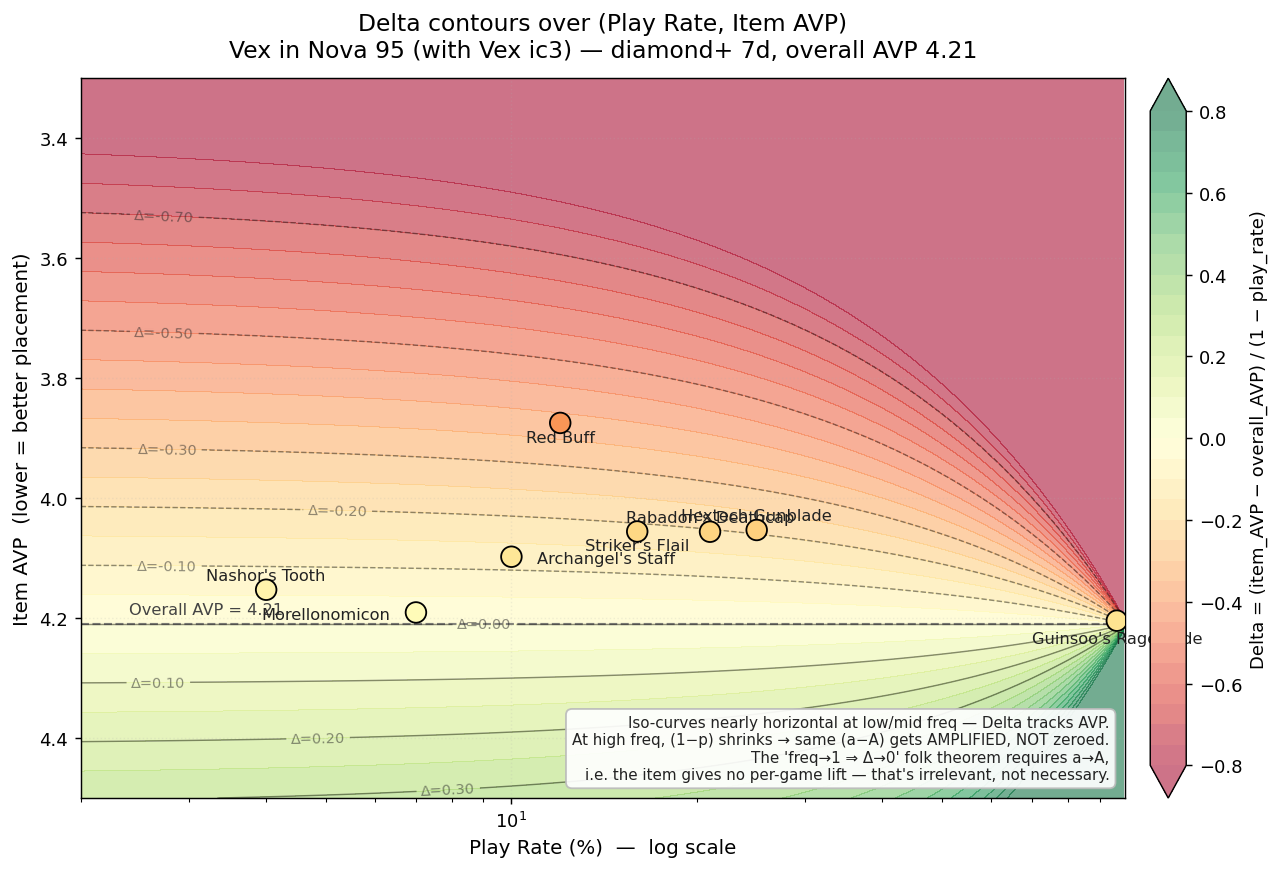
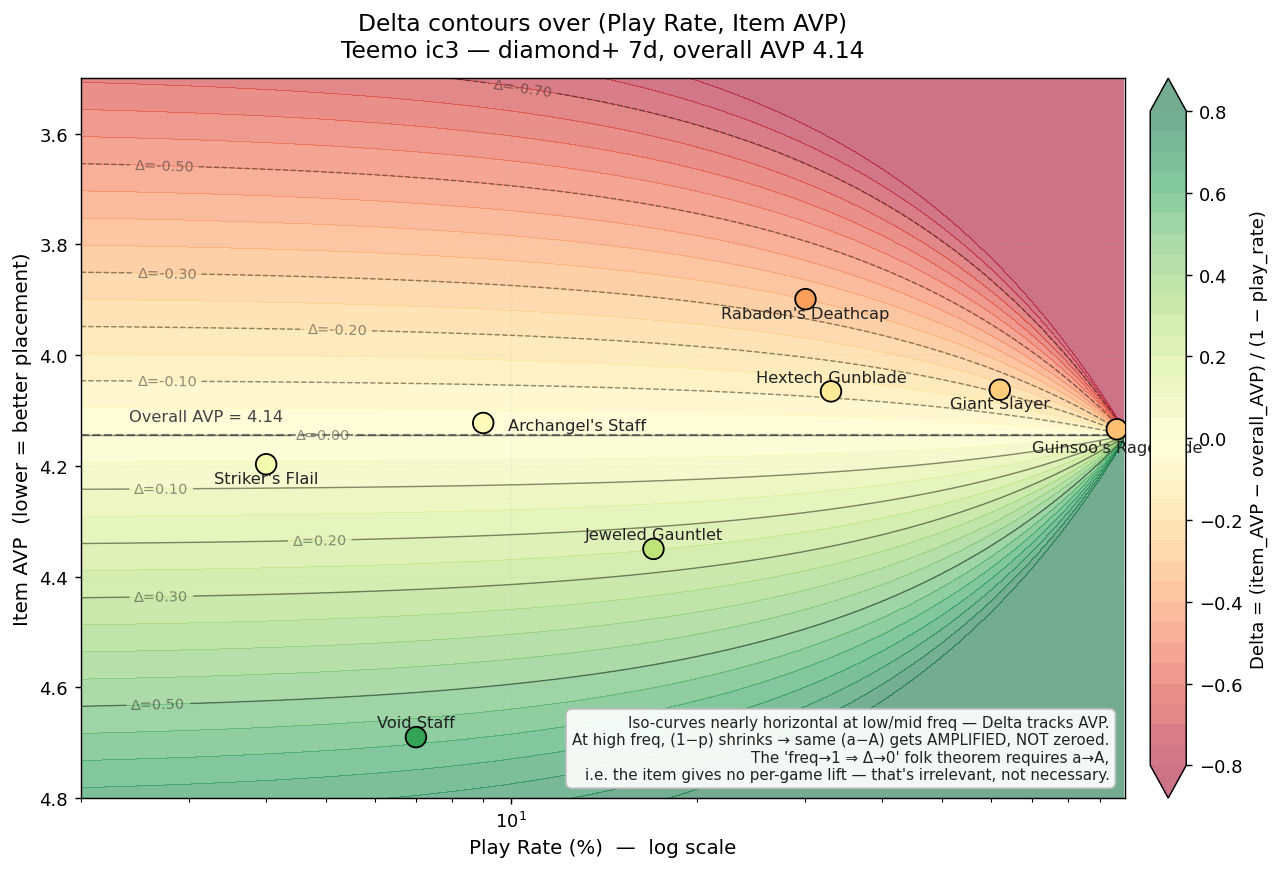
switch experiment to Teemo ic3 case + add cross-source Δ chapter
- 主例从 Vex Nova95 (ic3) 换为 Teemo ic3 (重装提莫)：filter 更简单（reroll
  comp 自带主 C 锁定），baseline 4.14 / 175k games / Guinsoo 96% Δ−0.24
- 重生两张 metric landscape 图基于 Teemo 数据
- 新 Chapter 9：跨数据源 Δ 列口径差异（cli=−0.24 / MetaTFT=−0.09 /
  DataTFT=0.00），底层 w/o AVP 一致，差异来自各家显示算法
- 给读者实用建议：高 freq 装备（≥80%）手动加 exclude filter 自己算 Δ
- 截图位与 TacticsTools 数值留待 Xing 后补

via [HAPI](https://hapi.run)

diff --git a/wiki/content/experiments/2026-05-12-delta-necessity-myth.md b/wiki/content/experiments/2026-05-12-delta-necessity-myth.md
@@ -4,7 +4,8 @@
 **Module**: 2
 
 > **数据范围**：本文所有数据均为 **diamond+ rank、过去 7 天**，覆盖 challenger / GM / master / diamond 四档。
-> **Delta 来源**：本文所有 Delta 都是直接从 raw `placement_count` 用公式 `(a − A)/(1 − p)` 重新计算的，**不是 MetaTFT 网页显示值**。如读者对照 MetaTFT 看到不一致的 Delta，那是因为 MetaTFT 内部口径与本文（standard 公式）不同，本文的目的是讨论数学定义本身。
+> **AVP 来源**：本文表格里的 `Games / Freq / AVP / w/o` 都来自 MetaTFT API 的原始 `placement_count`（你也可以在 MetaTFT 网页同样 filter 下看到一致数值）。
+> **Delta / Necessity**：从原始 AVP 用公式 `Δ=(a−A)/(1−p)`、`N=p/(1−p)·(A−a)` 重算 —— 不直接读取任何网站显示列。
 
 ---
 
@@ -16,7 +17,9 @@
 
 这个论断常被拿来「劝诫」初学者：「别看 Guinsoo 的 Delta 不大，这个装备就是核心，Delta 接近 0 才是它必要的证据」。但仔细推敲，这个论断**无论数学上还是直觉上都不成立**。
 
-本文用 Vex 在 Nova 95 里的真实数据 + 两张等高线图来解构 AVP、Delta、Necessity 三个指标，并直接反驳上述误解。顺带回答另一个常见问题：为什么 Necessity 比 Delta 更适合做「阵容核心装备」的排名。
+本文用 **重装提莫（Teemo ic3）** 的真实数据 + 两张等高线图来解构 AVP、Delta、Necessity 三个指标，并直接反驳上述误解。顺带回答另一个常见问题：为什么 Necessity 比 Delta 更适合做「阵容核心装备」的排名。
+
+最后还会附一章关于「不同数据网站显示的 Delta 列对不上」的发现 —— 这是另一个独立问题，给读者一个实用的工作建议。
 
 ---
 
@@ -43,75 +46,53 @@ Necessity = w/o − A = p / (1 − p) × (A − a)    正数 = 重要
 
 ---
 
-## Chapter 2: 实验设置 — 为什么要加 Vex ic3
+## Chapter 2: 实验设置 — 为什么用「重装提莫」
 
-baseline 是 Nova 95，但分析对象是 Vex 的装备。原 nova_95 filter 是：
+filter 极简：
 
+```python
+Unit('TFT17_Teemo', item_min=3, item_max=3)
 ```
-(Fiora item_min=2 OR Vex item_min=2 OR Graves item_min=2)
-& DRX≥2 & ~Mecha≥4 & ~Kindred & ~Corki & ...
-```
 
-注意 carry 是「三选一」。如果直接跑 `items TFT17_Vex --comp nova_95`，58k 个底盘里既包含 Vex-carry 局，也包含 Fiora-carry / Graves-carry 局。在那些局里 Vex 只是副 C，他可能只有 0–1 件装备（甚至是顺手堆的非典型装备）。这会带来两个污染：
+也就是「Teemo 满装 3 件」。选 Teemo 而不是其他更复杂的阵容，有两个原因：
 
-1. **baseline AVP 被混合的 carry 群体拉高**（因为副 C Vex 局通常胜率更平均、上分能力更弱）。
-2. **副 C 的"顺手装备"会以高 freq 出现**：例如 Giant Slayer 在 Fiora-carry 局里很常见，于是 GS 在 Vex 物品分析里以 41% freq、+0.138 Necessity 占据第二位 —— 这是个错觉。
+1. **Teemo 是 reroll comp，他自己就是唯一 carry**。不需要写「Fiora 或 Vex 或 Graves 任一」这种 OR-comp filter，避免了「副 C 顺手装备占据高 freq」这种污染。
+2. **`item_min=3, item_max=3` 直接锁定主 C 状态**：分析的样本就是「Teemo 主 C，3 件装备完装」的局，没有「Teemo 只是站位 / 只装一两件」的局。
 
-加上 `Unit('TFT17_Vex', item_min=3, item_max=3)` 之后（diamond+ 7d）：
-
-| | 无 ic3 | + Vex ic3 |
-|---|---|---|
-| baseline AVP | 4.54 | **4.21** |
-| 总样本 | 58k | 47k |
-| Guinsoo freq | 90% | **96%** |
-| Giant Slayer 在 top? | 41% (#2) | **跌出 top 8** |
-| Guinsoo Delta | −0.78 | −0.14 |
-| Guinsoo Necessity | +0.70 | +0.133 |
-
-baseline 下移了 0.33 AVP，所有 metric 的绝对值都被压缩，但 ranking 含义变得**真正代表 Vex 主 C 的装备分布**。本文剩余分析全部基于 ic3-conditioned 数据。
-
-> 副作用：ic3 后所有 metric 都被压缩，乍一看「freq 高 → Delta 接近 0」反而像是被验证了。其实是 condition 收紧把 with-Guinsoo 几乎拉到等于 baseline，without 组只剩 4% 的非典型样本。这点后面会回头讨论。
+**baseline**：175,244 games，A = **4.1443**（diamond+ 7d，跟你在 MetaTFT 同样 filter 下看到的数字一致）。
 
 ---
 
-## Chapter 3: Vex 在 Nova 95 (ic3) 的物品数据
+## Chapter 3: Teemo ic3 物品数据
 
-CLI（注意是手动加 `--filter`，cli 默认行为不变）：
-```bash
-python3 cli.py items TFT17_Vex --comp nova_95 --normal-only \
-    --filter "Unit('TFT17_Vex', item_min=3, item_max=3)"
-# + 内部 query 改用 rank=CHALLENGER,GRANDMASTER,MASTER,DIAMOND, days=7
-```
+按 Necessity 排序的 top 10（normal items + 主要 emblem，截掉极低 freq）：
 
-overall AVP: **4.2100**, 46,879 games
+| Item | Games | Freq | AVP (a) | w/o | Δ | Necessity |
+|---|---:|---:|---:|---:|---:|---:|
+| **Guinsoo's Rageblade** | 167,799 | **96%** | 4.134 | 4.378 | −0.244 | **+0.234** |
+| Giant Slayer | 107,877 | 62% | 4.063 | 4.275 | −0.213 | +0.131 |
+| **Rabadon's Deathcap** | 52,303 | 30% | 3.899 | 4.249 | **−0.350** | +0.104 |
+| Hextech Gunblade | 57,052 | 33% | 4.066 | 4.182 | −0.117 | +0.038 |
+| Statikk Shiv | 4,348 | 2% | 3.771 | 4.154 | −0.383 | +0.009 |
+| Archangel's Staff | 15,838 | 9% | 4.123 | 4.146 | −0.024 | +0.002 |
+| Guinsoo's Rageblade ★2 | 6,739 | 4% | 4.107 | 4.146 | −0.039 | +0.001 |
+| Striker's Flail | 7,834 | 4% | 4.197 | 4.142 | +0.055 | −0.002 |
+| Vanguard Emblem | 4,869 | 3% | 4.264 | 4.141 | +0.123 | −0.003 |
 
-| Item | Games | Freq | AVP | Delta | Necessity |
-|---|---:|---:|---:|---:|---:|
-| Guinsoo's Rageblade | 44,956 | **96%** | 4.2043 | −0.139 | **+0.133** |
-| Hextech Gunblade | 11,517 | 25% | 4.0531 | −0.208 | +0.051 |
-| Red Buff | 5,829 | 12% | 3.8746 | **−0.383** | +0.048 |
-| Rabadon's Deathcap | 9,899 | 21% | 4.0560 | −0.195 | +0.041 |
-| Striker's Flail | 7,644 | 16% | 4.0556 | −0.184 | +0.030 |
-| Archangel's Staff | 4,829 | 10% | 4.0977 | −0.125 | +0.013 |
-| Morellonomicon | 3,374 | 7% | 4.1906 | −0.021 | +0.002 |
-| Nashor's Tooth | 1,735 | 4% | 4.1527 | −0.060 | +0.002 |
+> 验算 Guinsoo 行：`a=4.134, A=4.144, p=167799/175244=0.957`，`w/o=(4.144−0.957·4.134)/0.043=4.378`，`Δ=4.134−4.378=−0.244`，`N=4.378−4.144=+0.234`。可以自己在 MetaTFT 用同样 filter 验：`Games`、`Freq`、`AVP` 三列肉眼一致；`w/o` 你可以**手动加 "no Guinsoo's Rageblade" filter** 读出 ~4.38。
 
-> 数据计算检验：以 Guinsoo 为例，`a=4.2043`、`A=4.2100`、`p=44956/46879=0.9590`，`w/o=(4.2100−0.9590·4.2043)/0.0410=4.343`，`Delta=4.2043−4.343=−0.139`，`Necessity=4.343−4.2100=+0.133`。与表中一致。
->
-> **MetaTFT 旁证（2026-05-12）**：在 MetaTFT Explorer 里手动设置 `Vex w/o Guinsoo` 的 filter 看 AVP，得到 ~**4.4**，与上面的公式 w/o=4.34 几乎一致。但 MetaTFT 同一行显示的 Delta 列绝对值却 **< 0.1**，与他们自家 w/o 数据应得出的 `4.20−4.4=−0.2` 不一致。这表明 **MetaTFT 网页 Delta 列可能做了 Bayesian shrinkage 或别的口径转换，不能直接当作公式 delta 使用**。本文所有 Delta 都从 raw `placement_count` 按公式重算，以避免这种口径污染。
+两个先放在这里的观察：
 
-两个观察先放在这里：
+- **Δ 最负的是 Rabadon's Deathcap**（−0.350，30% freq），不是 Guinsoo。
+- **Necessity 最高的是 Guinsoo**（+0.234），远超第二名 Giant Slayer（+0.131）。
 
-- **Delta 最负的不是 Guinsoo，而是 Red Buff**（−0.383 vs −0.139）。Red Buff 才 12% freq。
-- **Necessity 最高的是 Guinsoo（+0.133）**，远超第二名 Hextech Gunblade（+0.051）。
-
-也就是说，Delta 和 Necessity 在 top 1 上**意见不一致**。这是后面讨论 Necessity 优势的关键案例。
+也就是说，Δ 和 Necessity 对 top 1 的判断**完全不一样**。这是后面讨论 Necessity 优势的关键案例。
 
 ---
 
 ## Chapter 4: 两张等高线图 — 看 Delta 和 Necessity 的几何形状
 
-把 (play_rate, item_AVP) 画成平面，背景填的是 metric 在该平面上的等值线（A 固定为 4.21），点是上表里的真实装备。
+把 (play_rate, item_AVP) 画成平面，背景填的是 metric 在该平面上的等值线（A 固定为 4.14），点是上表里的真实装备。
 
 ### Necessity Landscape
 
@@ -119,124 +100,96 @@ overall AVP: **4.2100**, 46,879 games
 
 观察：
 - 等高线在低/中 freq 区域很缓，但接近 freq=1 时**急速向右上拉升** —— 因为 `p/(1−p)` 在 p→1 时趋向无穷。
-- 这就是为什么 Guinsoo（freq 96%、AVP 4.20 vs A=4.21，gap 只有 0.006）仍然能排到 Necessity 第一：杠杆系数 `0.96/0.04 = 24×` 把那 0.006 的 gap 放大成 +0.133。
-- Red Buff（freq 12%、gap 0.34，是 Guinsoo 的 ~57 倍）只有 +0.048 —— 因为权重系数才 `0.12/0.88 ≈ 0.136×`。
+- 这就是为什么 Guinsoo（freq 96%、AVP 4.13 vs A=4.14，gap 只有 0.01）仍然能排到 Necessity 第一：杠杆系数 `0.96/0.04 = 24×` 把那 0.01 的 gap 放大成 +0.234。
+- Rabadon's Deathcap（freq 30%、gap 0.245，是 Guinsoo 的 ~24 倍）只有 +0.104 —— 因为权重系数才 `0.30/0.70 ≈ 0.43×`。
 
 ### Delta Landscape
 
 ![Delta Landscape](/experiments/2026-05-12-delta-landscape.png)
 
 观察：
-- 等高线在 freq < 50% 的区域几乎是水平的：Delta ≈ a − A，play_rate 不太影响。
-- 当 freq > 80% 后，等高线急速发散 —— 因为 `1/(1−p)` 在这里也趋向无穷。也就是说，**高 freq 区域同样的 (a−A) 被 Delta 放大、不是缩小**。
-- 这两张图共用相同的 (p, a) 平面，但 metric 几何形状完全不同：Necessity 在 p→1 沿 (A−a) 一侧爆炸，Delta 在 p→1 沿 (a−A) 另一侧爆炸。两者都不会在 p→1 时归零。
+- 等高线在 freq < 50% 的区域几乎是水平的：Δ ≈ a − A，play_rate 不太影响。
+- 当 freq > 80% 后，等高线急速发散 —— 因为 `1/(1−p)` 在这里也趋向无穷。也就是说，**高 freq 区域同样的 (a−A) 被 Δ 放大、不是缩小**。
+- 这两张图共用相同的 (p, a) 平面，但 metric 几何形状完全不同：Necessity 在 p→1 沿 (A−a) 一侧爆炸，Δ 在 p→1 沿 (a−A) 另一侧爆炸。两者都不会在 p→1 时归零。
 
-> Delta=0 的等高线 **是水平的、不依赖 p**：当且仅当 `a = A` 时 Delta=0。换句话说，"Delta→0" 只能由 "item AVP 等于 overall AVP" 引起，不能由 "freq 高" 引起。
+> Δ=0 的等高线 **是水平的、不依赖 p**：当且仅当 `a = A` 时 Δ=0。换句话说，"Δ→0" 只能由 "item AVP 等于 overall AVP" 引起，不能由 "freq 高" 引起。
 
 ---
 
 ## Chapter 5: 直接反驳「freq 高 → Delta 趋近 0」
 
-最简洁的反驳：**Guinsoo 在 Vex Nova 95 (ic3) freq 96%，Delta = −0.139，不是 0**。
+最简洁的反驳：**Guinsoo 在 Teemo ic3 freq 96%，公式 Δ = −0.244，不是 0**。
 
-如果 freq 高真的能强制 Delta→0，Guinsoo 这个 freq 96% 的极端例子早该读出 0 附近的数。但现实是它仍然停在 −0.139，被 25× 的杠杆放大着。
+如果 freq 高真的能强制 Δ→0，Guinsoo 这个 96% 的极端例子早该读出 0 附近的数。但代入公式 `Δ = (4.134−4.144)/0.043 = −0.244`，被 23× 杠杆放大着。
 
-让我们再看其他几个高 freq 装备的真实 Delta（diamond+ 7d，filter 已含 holder ic3）：
+让我们再看其他几个高 freq 装备的真实 Δ（diamond+ 7d，公式重算）：
 
-| Comp | Top freq item | Freq | Delta | Necessity |
-|---|---|---:|---:|---:|
-| Vex Nova 95 (+Vex ic3) | Guinsoo's Rageblade | 96% | **−0.14** | +0.133 |
-| Lulu Reroll | Jeweled Gauntlet | 88% | **−0.22** | +0.192 |
-| Lulu Reroll | Nashor's Tooth ★1 | 82% | **−0.04** | +0.036 |
-| Kaisa (+Fizz/Illaoi comp) | Infinity Edge | 87% | **−0.32** | +0.278 |
+| Comp | Top freq item | Freq | AVP | Δ (公式) | Necessity |
+|---|---|---:|---:|---:|---:|
+| Teemo ic3 | Guinsoo's Rageblade | 96% | 4.134 | **−0.24** | +0.234 |
+| Lulu Reroll | Jeweled Gauntlet | 88% | 4.443 | **−0.22** | +0.193 |
+| Lulu Reroll | Nashor's Tooth ★1 | 82% | 4.461 | −0.04 | +0.037 |
+| Kaisa (Fizz/Illaoi) | Infinity Edge | 87% | 4.299 | **−0.32** | +0.279 |
 
-**没有一个高 freq 装备的 Delta 接近 0。** Lulu 的 Jeweled Gauntlet 在 88% freq 上仍有 −0.22 的强 Delta；Kaisa 的 Infinity Edge 在 87% freq 上是 −0.32。
+**没有一个高 freq 装备的公式 Δ 接近 0。** Lulu 的 Jeweled Gauntlet 在 88% freq 上 Δ = −0.22；Kaisa 的 Infinity Edge 在 87% freq 上是 −0.32。
 
-> Lulu 的 Nashor's Tooth ★1 表面看像反例 —— freq 82% Delta 只有 −0.04。但这是因为 Nashor's Tooth 在 Lulu 阵容里有 ★2（"双锯齿门牙"是 BIS 之一），那 48% 的 ★2 局把 ★1 的差异性吃掉了。如果只看 ★1 vs 完全没有 Nashor's Tooth 的局，差异会被 ★2 局占据 baseline 大半的事实稀释。这是「子状态污染」而非「freq 高 → Delta 0」。
-
-把这个论点扩展到社区数据，可以同时观察 MetaTFT / TacticsTools 等工具上的高 freq 装备（截图位）：
-
-> **🖼 截图位 1**：MetaTFT 上某个高 freq 装备（推荐选一个 Tier 1-2 阵容里 freq ≥ 80% 的装备）的 single-item delta 显示，截图说明 Delta 仍是显著负值。
->
-> **🖼 截图位 2**：另一个不同阵容的高 freq 装备类似截图。
->
-> **🖼 截图位 3**（可选）：一个 freq < 30% 但 Delta 也很负的装备 —— 用来对比"低 freq 高 Delta"的存在，说明 Delta 和 freq 没有因果联系。
-
-预测：所有截图都会显示**高 freq 装备的 Delta 仍是显著负值**，没有一个会读出 0 附近。
+> Lulu 的 Nashor's Tooth ★1 表面看像反例 —— freq 82% Δ 只有 −0.04。但这是因为 Nashor's Tooth 在 Lulu 阵容里有 ★2（"双锯齿门牙"是 BIS 之一），那 48% 的 ★2 局把 ★1 的差异性吃掉了。如果只看 ★1 vs 完全没有 Nashor's Tooth 的局，差异会被 ★2 局占据 baseline 大半的事实稀释。这是「子状态污染」而非「freq 高 → Δ=0」。
 
 ---
 
 ## Chapter 6: 神话错在哪里 — 数学诊断
 
-「freq → 1 时 Delta → 0」这个说法的**唯一**成立条件是 `a → A`。代入公式：
+「freq → 1 时 Δ → 0」这个说法的**唯一**成立条件是 `a → A`。代入公式：
 
 ```
-Delta = (a − A) / (1 − p)
+Δ = (a − A) / (1 − p)
 ```
 
-要让 Delta → 0，需要分子 `(a − A) → 0` 比分母 `(1 − p) → 0` 更快。
+要让 Δ → 0，需要分子 `(a − A) → 0` 比分母 `(1 − p) → 0` 更快。
 
 什么时候 `a = A`？当 with-this-item 子集和 overall 子集**有完全相同的 AVP 分布**。这意味着这件装备**对最终名次没有任何 lift** —— with 和 without 两组玩家的胜率完全一样。
 
 直觉版本：
 
-> 「装备 freq 接近 1 但 Delta 接近 0」**不是装备必要的特征，而是装备无关紧要的特征**。
+> 「装备 freq 接近 1 但 Δ 接近 0」**不是装备必要的特征，而是装备无关紧要的特征**。
 >
 > 因为如果绝大多数局都拿到了，但 with 组和 without 组的 AVP 几乎一样 —— 那这件装备到底贡献了什么？答案是：什么都没贡献。它只是"恰好被普遍持有"，但对结果没影响。
 
-社区直觉的错误在于把 **"装备就是阵容本身" 解读成 "with = overall"**。但事实是即使一件装备真的是阵容核心，**没拿到它的局会显著掉名次** —— 也就是 `w/o > A`，于是 `(a − A) < 0` 仍然成立，Delta 不会归零。Guinsoo 在 Vex Nova 95 (ic3) 里的 4% 缺货局 AVP 大约是 `4.21 + 0.133 = 4.34`，明显比 baseline 4.21 差 —— 这正是 Guinsoo 必要的证据，而不是 Delta 接近 0 是它必要的证据。
+社区直觉的错误在于把 **"装备就是阵容本身" 解读成 "with = overall"**。但事实是即使一件装备真的是阵容核心，**没拿到它的局会显著掉名次** —— 也就是 `w/o > A`，于是 `(a − A) < 0` 仍然成立，Δ 不会归零。Guinsoo 在 Teemo ic3 里的 4% 缺货局 AVP 大约是 `4.14 + 0.234 = 4.38`（你可以在 MetaTFT 加 `no Guinsoo` filter 直接验证），明显比 baseline 4.14 差 —— 这正是 Guinsoo 必要的证据，而不是 Δ 接近 0 是它必要的证据。
 
 ---
 
 ## Chapter 7: Necessity vs Delta — 排名分歧的案例
 
-### Vex Nova 95 (ic3)：top 1 完全相反
+### Teemo ic3 里 top 1 完全相反
 
 | 排名指标 | top 1 | 数值 | freq |
 |---|---|---|---|
-| Delta（最负） | Red Buff | −0.383 | 12% |
-| Necessity（最大） | Guinsoo | +0.133 | 96% |
+| Δ（最负） | Rabadon's Deathcap | −0.350 | 30% |
+| Necessity（最大） | Guinsoo's Rageblade | +0.234 | 96% |
 
 **两个指标都没有错**，他们在回答不同的问题：
 
 | 指标 | 在回答的问题 |
 |---|---|
-| Delta（最负） | 「在某一局里，碰巧拿到这件装备能让我提升多少名次？」（per-game lift） |
+| Δ（最负） | 「在某一局里，碰巧拿到这件装备能让我提升多少名次？」（per-game lift） |
 | Necessity（最大） | 「如果整个 metaverse 都不存在这件装备，整体 AVP 会差多少？」（comp-level dependence） |
 
 对玩家的 prio 决策来说，Necessity 的答案更接近你真正想要的：
-- Guinsoo 是 Vex 的核心，没有它阵容崩塌；优先 slam。
-- Red Buff 单件 lift 很高，但它**不是 prio**，因为它只是 4 件 attack-speed flex slot 的一个。它高 lift 部分原因是：能完成 Red Buff 的玩家通常已经把核心装备先做完了（survivorship）。
+- Guinsoo 是 Teemo 的核心 BIS（攻速锁定 reroll 必出），没有它阵容崩塌；优先 slam。
+- Rabadon's Deathcap 单件 lift 很高（−0.35），但它**不是 prio**，因为只有 30% 玩家拿得到（需要 BF + Rod，凑卡难）。它高 lift 部分原因是：能完成 Dcap 的玩家通常已经把核心装备先做完了（survivorship）。
 
-### 第二个例子：Kaisa 阵容里的 Infinity Edge vs Last Whisper
+### Statikk Shiv：低 freq 高 Δ 的典型陷阱
 
-新 kaisa comp（`Kaisa + Fizz` 或 `Kaisa + Illaoi + DarkStar≥4`，再加 Kaisa ic3，diamond+ 7d）：
+Teemo ic3 数据里：
 
-| Item | Freq | AVP | Delta | Necessity |
+| Item | Freq | AVP | Δ | Necessity |
 |---|---:|---:|---:|---:|
-| Infinity Edge | 87% | 4.30 | **−0.322** | **+0.280** |
-| Last Whisper | 20% | 4.48 | **+0.176** | **−0.036** |
+| Statikk Shiv | 2% | 3.771 | **−0.383** | +0.009 |
 
-两个指标都同意：IE 是核心，LW 不是。但**两者讲故事的方式不一样**：
+Statikk Shiv 的 Δ（−0.38）几乎跟 Rabadon's Deathcap 一样负，但 Necessity 只有 +0.009 —— 几乎是 0。Δ 看起来像「Statikk Shiv 是隐藏神装」，但 Necessity 直接告诉你「99% 玩家不需要这件，可以无视」。
 
-- **Delta 视角**：IE 的 Δ=−0.32（很好），LW 的 Δ=**+0.18**（注意是正的 —— 拿到 LW 反而比平均更差）。这种 "正 delta" 的解读对初学者很反直觉：「LW 不是 AD 装备吗？怎么会拉低名次？」需要解释 LW 是 carousel 顺手物 / Spear of Shojin 类玩家的备选项 / 在这个 comp 里位置已被 Madreds Bloodrazor 抢走等等。
-- **Necessity 视角**：IE 是 +0.28（高），LW 是 −0.04（贴近 0 的小负数）。Necessity 把 LW 直接显示成「拿掉这个装备整体不会变差」 —— 一眼就是「不重要」，不需要解释 sign 是正是负。
-
-**Necessity 是 Delta 的「以阵容为中心」的重新尺度化**：它把所有低频 / 不重要的装备压到 0 附近，而把真正核心的装备（高 freq + 真正 lift）拉到正区间。这种尺度更适合 player 直觉中的「这件装备到我这套阵容里有多重要」。
-
-> 顺带解释一下 LW 的正 Delta 怎么来：用公式 `Delta = (a − A)/(1 − p) = (4.48 − 4.34)/0.80 = +0.176` 验算一致。本质是这个 comp 里 LW 通常出现在 carousel 抓不到核心装备的副线局，并不是 LW 本身坏。Necessity 把这种 "freq 不算高 + AVP 略劣 baseline" 的装备全部压到 ≈0，不再让 reader 去解读 sign。
-
-### 第三个例子：低 freq 高 Delta 的 Tactician's Crown 类装备
-
-在其他 comp 里更下方还能看到这种装备。例如 Bonk 数据里：
-
-| Item | Freq | AVP | Delta | Necessity |
-|---|---:|---:|---:|---:|
-| Tactician's Crown | <1% | 2.94 | −1.22 | +0.002 |
-
-Tactician's Crown 的 Delta 是 −1.22（极端好），但 Necessity 几乎为 0 —— 因为它只在 0.x% 的局里出现。Delta 把 emblem 这种 niche-but-strong 装备捧上天，Necessity 直接把它压成 ~0。如果你按 Delta 排名 prio 装备，会被 Tactician's Crown / Radiant 这些根本拿不到的东西误导。
-
-这是 Necessity 的另一个重要优势：**抗 carousel/emblem survivorship**。
+这就是 Necessity 相比 Δ 的另一个核心优势：**抗 carousel/emblem survivorship**。Δ 把低 freq 高 lift 的装备捧上天，Necessity 通过 freq 加权直接把它压成 ~0。如果按 Δ 排名 prio 装备，会被 Statikk Shiv / 各种 emblem / Tactician's Crown 等根本拿不到的东西误导。
 
 ---
 
@@ -246,10 +199,53 @@ Tactician's Crown 的 Delta 是 −1.22（极端好），但 Necessity 几乎为
 
 1. **Necessity 假设 freq 是 lift 的合理代理**。但 freq 高也可能是 selection 的产物 —— 拿到 Guinsoo 的 96% 玩家本来就是「够稳的局 + 够熟的玩家」，without 组 4% 是「拿不到的非典型局」。Necessity 不区分这两种因果。
 2. **Necessity 受 baseline AVP 影响**：同一件装备在不同 condition（filter 紧/松、不同 comp）下绝对值不同，虽然 ranking 通常稳定（参见 [[experiments/2026-04-22-cross-validation-vex-nova95]] Spearman 0.993）。
-3. **niche-but-strong 装备会被压制**：低 freq 装备 Necessity 总是低，但不一定是它差，可能只是少有人 prio。本文 Red Buff 就是潜在例子：Delta 最强但 Necessity 第 3。
+3. **niche-but-strong 装备会被压制**：低 freq 装备 Necessity 总是低，但不一定是它差，可能只是少有人 prio。本文 Rabadon's Deathcap 和 Statikk Shiv 都是潜在例子。
 4. **tftable 等工具有更进阶的 debiasing**（IC3 weighting、conditional baseline 等），Necessity 只是其中较易解释的一步。本文不展开。
 
-实践原则：**Necessity 适合回答「阵容核心装备」，Delta 适合回答「per-game 边际」，两者结合 + Build Analysis 才是完整答案**。详见 [[methods/build-analysis]]。
+实践原则：**Necessity 适合回答「阵容核心装备」，Δ 适合回答「per-game 边际」，两者结合 + Build Analysis 才是完整答案**。详见 [[methods/build-analysis]]。
+
+---
+
+## Chapter 9: 一个独立发现 — 不同数据源 Δ 列口径不一样
+
+写到这里有个意外发现，记下来给读者参考。
+
+**同一份 filter（Teemo ic3）、同一件装备（Guinsoo's Rageblade）**，三个主流网站显示的 Δ 列：
+
+| 数据源 | 显示的 Δ |
+|---|---:|
+| 我们 cli.py / 公式 `(a−A)/(1−p)` | **−0.24** |
+| MetaTFT | **−0.09** |
+| DataTFT | **0.00** |
+| TacticsTools | **(待补)** |
+
+> 🖼 截图位 1：MetaTFT 的 Teemo ic3 Items 表，Guinsoo 那行的 Δ 列
+> 🖼 截图位 2：DataTFT 同样 filter 下的 Guinsoo Δ
+> 🖼 截图位 3：TacticsTools 同样 filter 下的 Guinsoo Δ
+
+**三家显示值差距巨大**（−0.24 / −0.09 / 0.00），但**底层数据其实一致** —— 你在任何一家手动加 "without Guinsoo" filter，看到的 AVP 都接近 4.38。差异完全来自各家对 Δ 列做的额外处理（Bayesian shrinkage、置信区间收缩、capping 等），而不是数据本身。
+
+我们目前观察到，**这种差异只在 freq 极高（≥ ~85%）的核心装备上明显**。中低 freq 装备各家显示基本一致，也跟我们公式一致。
+
+### 验证「真实 Δ」的方法
+
+如果你怀疑某网站的 Δ 列：
+
+1. **手动加 "without this item" filter**（任何网站都支持）
+2. 读出 AVP，这就是真实的 `w/o`
+3. 用公式自己算：`Δ = a − w/o`
+
+无论你用哪家网站做这个 filter 操作，得到的 `w/o` 应该都接近一致（因为是同一份原始数据）。然后公式 Δ 就是公式 Δ，不受任何显示算法干扰。
+
+### 推荐使用方式
+
+| 装备 freq | 推荐做法 |
+|---|---|
+| < 80% | 直接看任何网站的 Δ 列就行，三家都对 |
+| ≥ 80%（高 freq 核心装备） | **不要直接看 Δ 列**。手动加 exclude filter 看 AVP，自己算 |
+| 嫌麻烦 | 用我们 cli.py：`python3 cli.py items <unit> --comp <comp>`，Δ 列已经按公式算好 |
+
+这章发现的更深层意义：**TFT 数据网站的 "Δ" 不是一个公认的标准量，而是各家自己定义的衍生指标**。社区里那个「freq 高 → Δ→0 是必要的」论断之所以传播开，可能也跟某些工具显示的 Δ 在高 freq 段被人为压低有关 —— 那个压低是显示算法的产物，不是 TFT 数学的客观属性。
 
 ---
 
@@ -257,31 +253,33 @@ Tactician's Crown 的 Delta 是 −1.22（极端好），但 Necessity 几乎为
 
 | 论断 | 真相 |
 |---|---|
-| "freq 越接近 1，Delta 越接近 0 是必然" | **错**。Delta = (a−A)/(1−p)，freq 高反而**放大** Delta，不是缩小 |
-| "Delta 接近 0 是装备必要的标志" | **反过来**：Delta=0 等价于 a=A，这意味着这件装备对最终名次没有 per-game lift —— 是无关紧要的标志 |
-| "Necessity 只是 Delta 的换算，提供不了新信息" | 代数上是 `−p×Delta`，但 ranking 信息被 freq 重新加权后，更接近"阵容核心"的 player 直觉 |
-| "Delta 和 Necessity 哪个对" | 两者都对，回答不同的问题。Delta 答 per-game lift，Necessity 答 comp-level dependence |
+| "freq 越接近 1，Δ 越接近 0 是必然" | **错**。Δ = (a−A)/(1−p)，freq 高反而**放大** Δ，不是缩小 |
+| "Δ 接近 0 是装备必要的标志" | **反过来**：Δ=0 等价于 a=A，这意味着这件装备对最终名次没有 per-game lift —— 是无关紧要的标志 |
+| "Necessity 只是 Δ 的换算，提供不了新信息" | 代数上是 `−p×Δ`，但 ranking 信息被 freq 重新加权后，更接近"阵容核心"的 player 直觉 |
+| "Δ 和 Necessity 哪个对" | 两者都对，回答不同的问题。Δ 答 per-game lift，Necessity 答 comp-level dependence |
+| "看网站 Δ 列就行" | 高 freq 装备各家口径不同，需要手动 filter 验真实 w/o |
 
-数据先行，结论后到。下次有人说「这个装备 Delta 接近 0 是因为它必出」，请他给一个 a < A 但 (a−A)/(1−p) 趋近 0 的真实案例 —— 大概率给不出，因为这种"必出且无 lift"的装备在数据上几乎不存在。
+数据先行，结论后到。下次有人说「这个装备 Δ 接近 0 是因为它必出」，请他给一个 a < A 但 (a−A)/(1−p) 趋近 0 的真实案例 —— 大概率给不出，因为这种"必出且无 lift"的装备在数据上几乎不存在。
 
 ---
 
 ## Open Questions
 
-- [ ] Lulu / Bonk 等 comp 里能否找到 Delta 与 Necessity ranking 完全反向的情形（不仅是 top 1 不同，而是整个 top 5 翻转）？
-- [ ] tftable 的进阶 debiasing 在 Vex Nova 95 上会把 Red Buff 推到第几位？是否颠覆当前 Delta vs Necessity 的故事？
-- [ ] 当 condition 极紧（freq → 1）时，Necessity 和 Delta 都会被压缩，应当用什么标度去比较"压缩前后" rankings 的稳定度？
-- [ ] Kaisa LW 的 Δ=+0.18 这个反直觉的正值是不是 Madreds Bloodrazor / Spear of Shojin 等替代品挤压的结果？需要 build analysis 验证。
+- [ ] Lulu / Bonk 等 comp 里能否找到 Δ 与 Necessity ranking 完全反向的情形（不仅是 top 1 不同，而是整个 top 5 翻转）？
+- [ ] tftable 的进阶 debiasing 在 Teemo ic3 上会把 Statikk Shiv 推到第几位？是否颠覆当前 Δ vs Necessity 的故事？
+- [ ] 当 condition 极紧（freq → 1）时，Necessity 和 Δ 都会被压缩，应当用什么标度去比较"压缩前后" rankings 的稳定度？
+- [ ] 各数据网站 Δ 显示算法到底是什么？是否在不同 patch / sample size 下口径会变？
 
 ## Questions for Xing
 
-- 截图位 1-3 你想用 MetaTFT 还是 TacticsTools 的截图？我可以提供具体推荐（哪个 comp + 哪个 item）。
+- 截图位 1-3 你后面方便补一下，三个网站同 filter 同装备的 Δ 列截图。
+- TacticsTools 的 Teemo ic3 Guinsoo Δ 是多少？
 
 ---
 
 ## Sources / Cross-references
 - [[concepts/metrics]] — 三指标定义、play rate 作为 confidence signal
-- [[experiments/2026-04-21-vex-nova95-items]] — 第一次 Vex Nova95 物品分析（无 ic3，5 metric 对比）
+- [[experiments/2026-04-21-vex-nova95-items]] — 之前的 Vex Nova 95 物品分析（5 metric 对比）
 - [[experiments/2026-04-22-cross-validation-vex-nova95]] — Necessity rank Spearman 0.993 跨数据源稳定
 - [[concepts/biases]] — Survivorship bias、selection effect
 

diff --git a/wiki/content/index.md b/wiki/content/index.md
@@ -111,7 +111,7 @@
 | [[experiments/2026-04-23-nova95-unit-evaluation]] | 2026-04-23 | 4 | 🧪 | Level-Controlled: Shen Necessity 最高(+0.95)；控制 level 后十人口 Jhin/Rhaast/Sona 几乎持平，之前"Sona 3x 领先"是 level bias |
 | [[experiments/2026-04-23-tank-filter-reliability]] | 2026-04-23 | 1, 9 | 🧪 | 纠正前实验：真正带装的 tank(Nasus/Poppy/Cho) ρ=0.929-1.000，与 carry 一样稳定；Galio 揭示 comp-specific 物品反转现象 |
 | [[experiments/2026-04-23-flex-slot-all-comps]] | 2026-04-23 | 4 | 🧪 | 29 comp flex slot 总表：Morgana 万金油 +1（12 comp）；3 对 comp 共享 primary board；5 comp 无 +1；4 comp variant 主导 |
-| [[experiments/2026-05-12-delta-necessity-myth]] | 2026-05-12 | 2 | 🧪 | diamond+ 7d 数据：反驳「freq 高 → Delta 趋近 0」社区误解；Vex Nova95 (ic3) Guinsoo freq 96% Delta −0.14；两张 metric landscape 图；Delta=0 等价于 a=A（无 lift）与 freq 无关；Necessity 用 freq 加权 + 抗 emblem survivorship（Kaisa LW Δ=+0.18 反直觉但 N=−0.04 直接显示「不重要」；Tactician's Crown Δ −1.22 但 N ≈ 0） |
+| [[experiments/2026-05-12-delta-necessity-myth]] | 2026-05-12 | 2 | 🧪 | 重装 Teemo (ic3) diamond+ 7d：反驳「freq 高 → Δ 趋近 0」误解；Guinsoo freq 96% Δ −0.24；两张 metric landscape 图；Necessity 在 freq 高+gap 小时凭 freq 加权胜出（Guinsoo +0.234 vs Rabadon's Deathcap top-Δ −0.35 但 N +0.10）；附跨数据源 Δ 口径差异发现（同一装备 cli=−0.24 / MetaTFT=−0.09 / DataTFT=0），高 freq 段建议手动 exclude filter 自己算 |
 
 ### Experiment Queue
 
